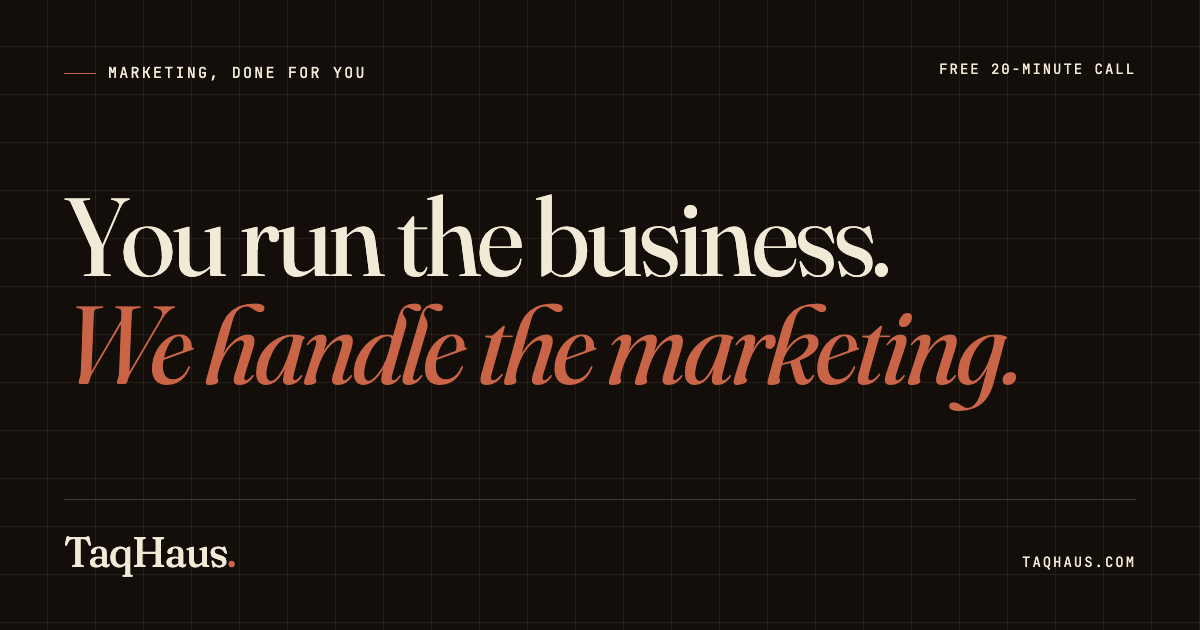
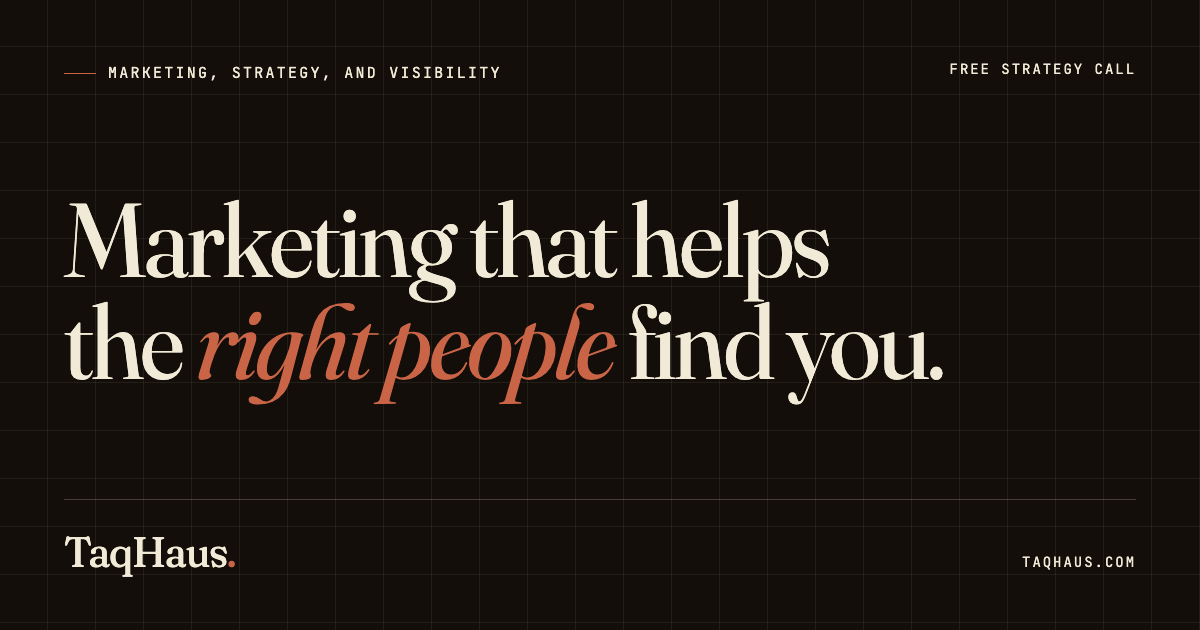
feat: broaden hero positioning beyond local businesses
Audience-mismatch fix: the cafe image, Toronto edge note, and
owner-casual headline were narrowing the brand to local lifestyle
businesses, clashing with the public-figures and B2B side.

- Headline: "Marketing that helps the right people find you."
- Subcopy covers businesses through public-facing leaders, framed
  around awareness, trust, leads, and engagement
- Eyebrow: "Marketing, strategy, and visibility"
- CTAs: "Book a free strategy call" + ghost "Explore services"
  (replacing "See pricing", wrong second step for custom-retainer
  clients)
- Hero image swapped from cafe storefront to a warm strategy-workspace
  scene (campaign boards, analytics laptop), fal-generated on palette
- Stat chip label broadened to "Increase in qualified signups"
- Right edge note now "Strategy · Content · Paid media · Web"
- OG default card regenerated with the new headline
- Abstract growth still-life candidate saved to public/images for
  future section use

Changed region(s): [[0.0308, 0.3016, 0.8633, 0.6635], [0.185, 0.0905, 0.4317, 0.1206], [0.8017, 0.0905, 0.8942, 0.1206]]

diff --git a/src/pages/LandingPageRedesign.tsx b/src/pages/LandingPageRedesign.tsx
@@ -120,7 +120,7 @@ export default function LandingPageRedesign() {
       {/* ── Hero ─────────────────────────────────────────────────────────────── */}
       <section className="hero hero--quiet">
         <span className="edge-note edge-note--left">info@taqhaus.com</span>
-        <span className="edge-note edge-note--right">Toronto · Serving everywhere</span>
+        <span className="edge-note edge-note--right">Strategy · Content · Paid media · Web</span>
         <div className="wrap">
           <div className="hero-split">
             <div className="hero-copy">
@@ -130,14 +130,14 @@ export default function LandingPageRedesign() {
                 animate={{ opacity: 1 }}
                 transition={{ duration: 1 }}
               >
-                Marketing, done for you
+                Marketing, strategy, and visibility
               </motion.span>
               <motion.h1
                 initial={{ opacity: 0, y: 26 }}
                 animate={{ opacity: 1, y: 0 }}
                 transition={{ duration: 0.9, ease: [0.2, 0.7, 0.2, 1] }}
               >
-                You run the business. We handle the <em>marketing</em>.
+                Marketing that helps the <em>right people</em> find you.
               </motion.h1>
               <motion.p
                 className="sub"
@@ -145,7 +145,7 @@ export default function LandingPageRedesign() {
                 animate={{ opacity: 1, y: 0 }}
                 transition={{ duration: 0.9, delay: 0.2, ease: [0.2, 0.7, 0.2, 1] }}
               >
-                Social media, Google, email, ads, and your website. All of it, handled by one team, so you don't have to learn marketing or hire anyone.
+                From businesses to public-facing leaders, we build digital campaigns that grow awareness, trust, leads, and engagement across the channels that matter.
               </motion.p>
               <motion.div
                 className="cta-row"
@@ -154,9 +154,9 @@ export default function LandingPageRedesign() {
                 transition={{ duration: 0.9, delay: 0.35, ease: [0.2, 0.7, 0.2, 1] }}
               >
                 <a href={CALENDLY_URL} className="btn btn-accent" target="_blank" rel="noopener noreferrer">
-                  Book a free 20-minute call <span className="arrow">↗</span>
+                  Book a free strategy call <span className="arrow">↗</span>
                 </a>
-                <a href="#pricing" className="btn btn-ghost">See pricing</a>
+                <Link to="/services" className="btn btn-ghost">Explore services</Link>
               </motion.div>
               <motion.span
                 className="quiet-note"
@@ -175,11 +175,11 @@ export default function LandingPageRedesign() {
               transition={{ duration: 1, delay: 0.25, ease: [0.2, 0.7, 0.2, 1] }}
             >
               <div className="frame">
-                <img src="/images/hero-quiet.jpg" alt="A sunlit small business storefront" fetchPriority="high" />
+                <img src="/images/hero-strategy.jpg" alt="Campaign planning boards and analytics on a strategy desk" fetchPriority="high" />
               </div>
               <div className="stat-chip">
                 <span className="num">+188%</span>
-                <span className="lbl">Signups from Google · real client</span>
+                <span className="lbl">Increase in qualified signups</span>
               </div>
             </motion.div>
           </div>
